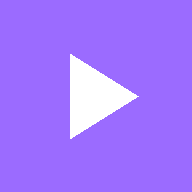
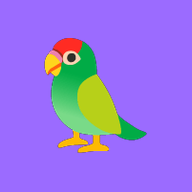
Add files via upload

Changed region(s): [[0.2188, 0.1875, 0.7812, 0.8125]]

diff --git a/index.html b/index.html
@@ -2,7 +2,7 @@
 <html lang="fr"><head><meta charset="utf-8">
 <meta name="viewport" content="width=device-width,initial-scale=1,viewport-fit=cover">
 <meta name="theme-color" content="#9b6bff"><link rel="manifest" href="manifest.json"><link rel="icon" href="icon-192.png">
-<title>Soundboard</title>
+<title>Mon Perroquet</title>
 <style>
 :root{--bg:#f4f1ff;--ink:#2a2340;--c0:#ff6b6b;--c1:#ffb020;--c2:#2ec4a0;--c3:#3d8bfd;--c4:#9b6bff;--c5:#ff7eb6;color-scheme:light}
 *{box-sizing:border-box;-webkit-tap-highlight-color:transparent}
@@ -38,7 +38,7 @@ input[type=range]{width:100%;accent-color:var(--c4)}
 .em{font-size:1.5rem;background:#f4f1ff;border:0;border-radius:10px;width:42px;height:42px}
 small{opacity:.7;display:block;margin-top:6px}
 </style></head><body>
-<header><h1>🔊 Sons</h1><div><button class="ib" id="ed" title="Modifier">✏</button><button class="ib" id="st" title="Réglages">⚙</button></div></header>
+<header><h1>🦜 Mon Perroquet</h1><div><button class="ib" id="ed" title="Modifier">✏</button><button class="ib" id="st" title="Réglages">⚙</button></div></header>
 <div id="ban" hidden></div><nav id="tabs"></nav><main id="grid"></main><button id="add" aria-label="Ajouter un son">＋</button>
 
 <dialog id="dE"><h2 id="eT">Nouveau son</h2>

diff --git a/sw.js b/sw.js
@@ -1,4 +1,4 @@
-const C="sb-v1",F=["./","./index.html","./manifest.json","./icon-192.png","./icon-512.png"];
+const C="sb-v2",F=["./","./index.html","./manifest.json","./icon-192.png","./icon-512.png"];
 self.addEventListener("install",e=>{e.waitUntil(caches.open(C).then(c=>c.addAll(F)));self.skipWaiting()});
 self.addEventListener("activate",e=>e.waitUntil(caches.keys().then(k=>Promise.all(k.filter(x=>x!==C).map(x=>caches.delete(x)))).then(()=>clients.claim())));
 self.addEventListener("fetch",e=>e.respondWith(caches.match(e.request).then(r=>r||fetch(e.request))));

diff --git a/README.md b/README.md
@@ -1,0 +1,49 @@
+# 🦜 Mon Perroquet
+
+Une petite application web (PWA) de soundboard : chaque bouton rejoue un son que tu as enregistré ou importé, avec un emoji pour le reconnaître. Tout est stocké sur ton téléphone, sans compte ni serveur.
+
+**Application : https://a-rech.github.io/monperroquet/**
+
+## Fonctionnalités
+
+- Enregistrement au micro ou import d’un fichier audio (mp3, wav, m4a, ogg…)
+- Éditeur d’extrait : choix du début et de la fin sur la forme d’onde, avec écoute avant de valider
+- Un emoji, un nom, un volume et une catégorie par bouton
+- Catégories colorées, avec onglets pour filtrer
+- Mode édition (✏) : glisser-déposer pour réorganiser, toucher un bouton pour le modifier
+- Comportement quand on touche un bouton déjà en lecture, au choix : rejouer, arrêter ou superposer
+- Nombre de colonnes réglable
+- Fonctionne hors ligne une fois installée
+
+## Installation
+
+1. Ouvrir l’adresse ci-dessus dans Chrome sur Android.
+2. Menu ⋮ puis « Installer l’application » (ou « Ajouter à l’écran d’accueil »).
+
+## Sauvegardes
+
+Les sons sont stockés dans IndexedDB, dans le navigateur de l’appareil. Cela signifie que **effacer les données du site ou désinstaller le navigateur supprime les sons**. Pour ne rien perdre :
+
+- **Exporter (.json)** : réglages ⚙, puis « Exporter ». Le fichier contient tous les sons et catégories. À conserver hors du téléphone (cloud, ordinateur).
+- **Importer** : fusionne un fichier exporté avec les sons déjà présents.
+- **Sauvegarde interne** : une seule copie, stockée dans le navigateur, qui remplace la précédente à chaque fois. Pratique pour revenir en arrière, mais elle ne protège pas contre un effacement des données du site.
+- Un bandeau de rappel apparaît si le dernier export date de plus de 14 jours.
+
+## Déploiement
+
+Le projet est statique : il suffit de pousser les fichiers à la racine du dépôt et d’activer GitHub Pages (Settings → Pages → branche `main`, dossier `/ (root)`).
+
+| Fichier | Rôle |
+|---|---|
+| `index.html` | Toute l’application (HTML, CSS, JS) |
+| `manifest.json` | Nom, couleurs et icônes de l’app installée |
+| `sw.js` | Service worker pour le mode hors ligne |
+| `icon-192.png`, `icon-512.png` | Icônes |
+
+Après une modification, change le numéro de version du cache dans `sw.js` (`sb-v2`, `sb-v3`…) pour que les appareils déjà installés récupèrent la mise à jour.
+
+## Technique
+
+JavaScript natif, sans framework ni dépendance. Audio via Web Audio API et MediaRecorder, stockage via IndexedDB.
+
+L’emoji des icônes est le perroquet de Noto Emoji (Google), distribué sous licence Apache 2.0.
